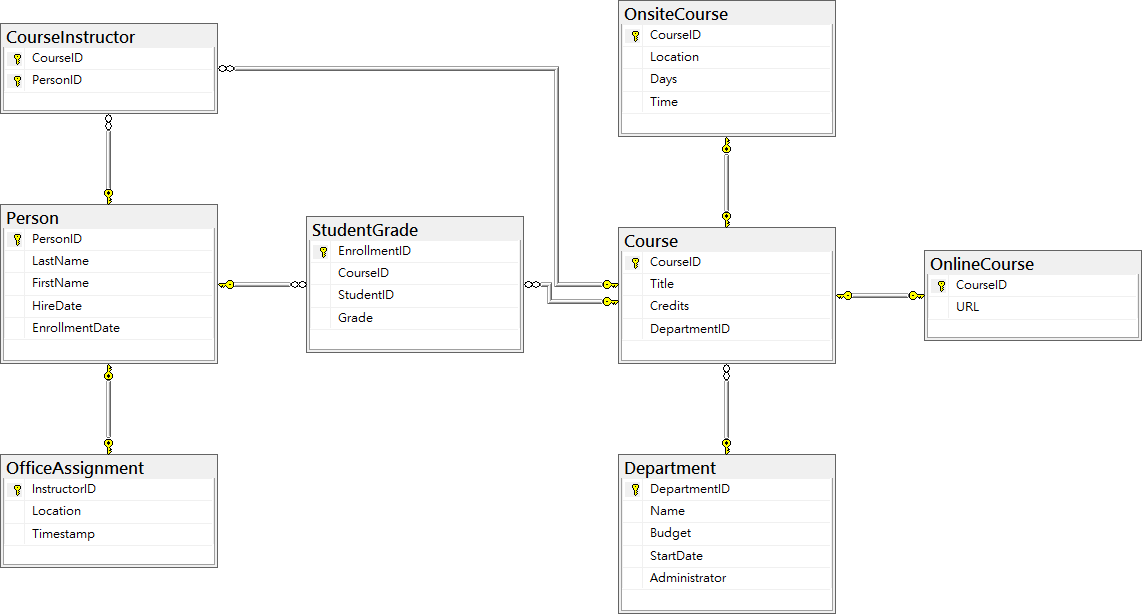
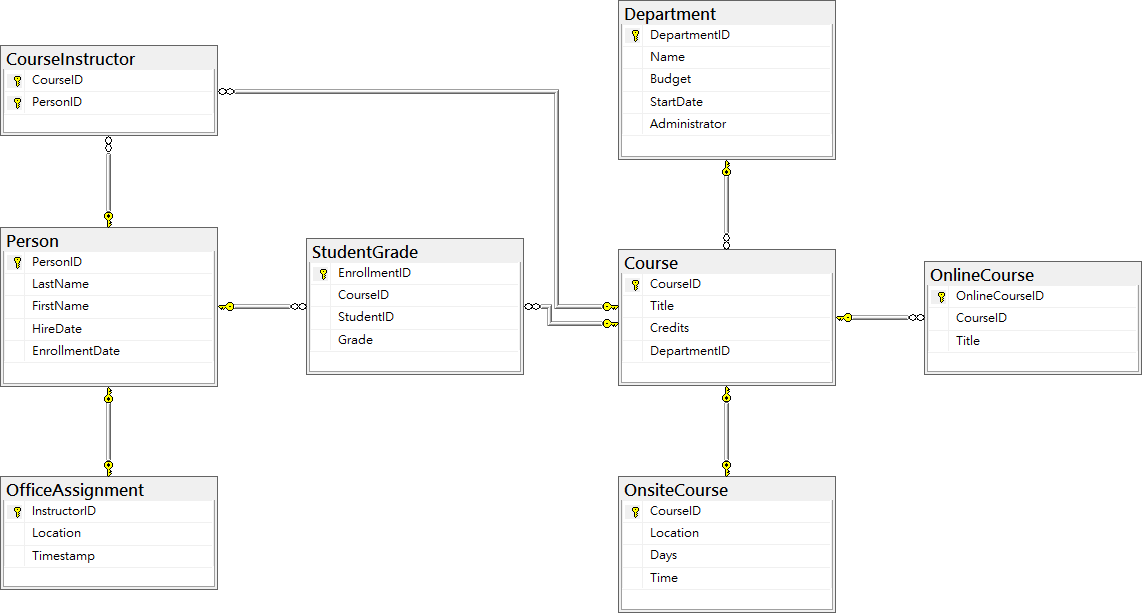
修正 OnlineCourse 具有一對多關係

diff --git a/SyncfusionLab/EFCoreModel/Models/SchoolContext.cs b/SyncfusionLab/EFCoreModel/Models/SchoolContext.cs
@@ -116,20 +116,17 @@ namespace EFCoreModel.Models
 
             modelBuilder.Entity<OnlineCourse>(entity =>
             {
-                entity.HasKey(e => e.CourseId);
+                entity.Property(e => e.OnlineCourseId).HasColumnName("OnlineCourseID");
 
-                entity.Property(e => e.CourseId)
-                    .HasColumnName("CourseID")
-                    .ValueGeneratedNever();
+                entity.Property(e => e.CourseId).HasColumnName("CourseID");
 
-                entity.Property(e => e.Url)
+                entity.Property(e => e.Title)
                     .IsRequired()
-                    .HasColumnName("URL")
                     .HasMaxLength(100);
 
                 entity.HasOne(d => d.Course)
-                    .WithOne(p => p.OnlineCourse)
-                    .HasForeignKey<OnlineCourse>(d => d.CourseId)
+                    .WithMany(p => p.OnlineCourse)
+                    .HasForeignKey(d => d.CourseId)
                     .OnDelete(DeleteBehavior.ClientSetNull)
                     .HasConstraintName("FK_OnlineCourse_Course");
             });

diff --git a/SyncfusionLab/EFCoreModel/Models/Course.cs b/SyncfusionLab/EFCoreModel/Models/Course.cs
@@ -8,6 +8,7 @@ namespace EFCoreModel.Models
         public Course()
         {
             CourseInstructor = new HashSet<CourseInstructor>();
+            OnlineCourse = new HashSet<OnlineCourse>();
             StudentGrade = new HashSet<StudentGrade>();
         }
 
@@ -17,9 +18,9 @@ namespace EFCoreModel.Models
         public int DepartmentId { get; set; }
 
         public virtual Department Department { get; set; }
-        public virtual OnlineCourse OnlineCourse { get; set; }
         public virtual OnsiteCourse OnsiteCourse { get; set; }
         public virtual ICollection<CourseInstructor> CourseInstructor { get; set; }
+        public virtual ICollection<OnlineCourse> OnlineCourse { get; set; }
         public virtual ICollection<StudentGrade> StudentGrade { get; set; }
     }
 }

diff --git a/SyncfusionLab/EFCoreModel/Models/OnlineCourse.cs b/SyncfusionLab/EFCoreModel/Models/OnlineCourse.cs
@@ -5,8 +5,9 @@ namespace EFCoreModel.Models
 {
     public partial class OnlineCourse
     {
+        public int OnlineCourseId { get; set; }
         public int CourseId { get; set; }
-        public string Url { get; set; }
+        public string Title { get; set; }
 
         public virtual Course Course { get; set; }
     }
